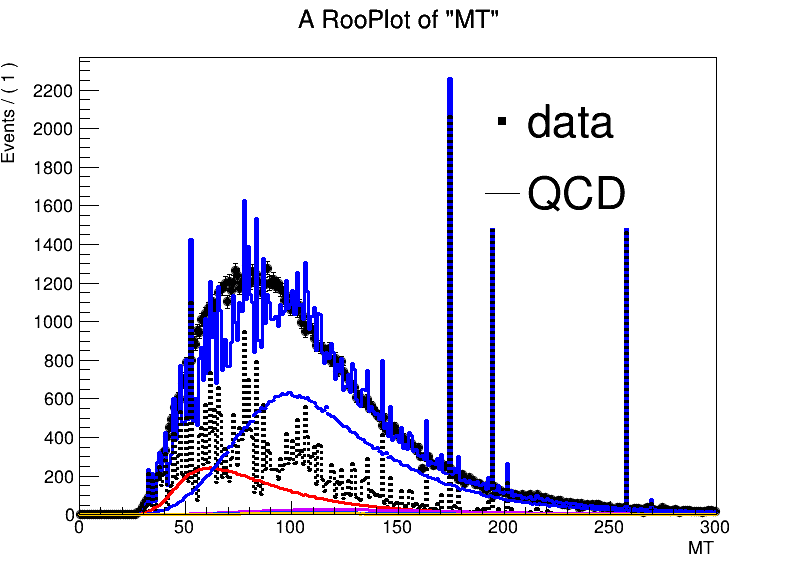
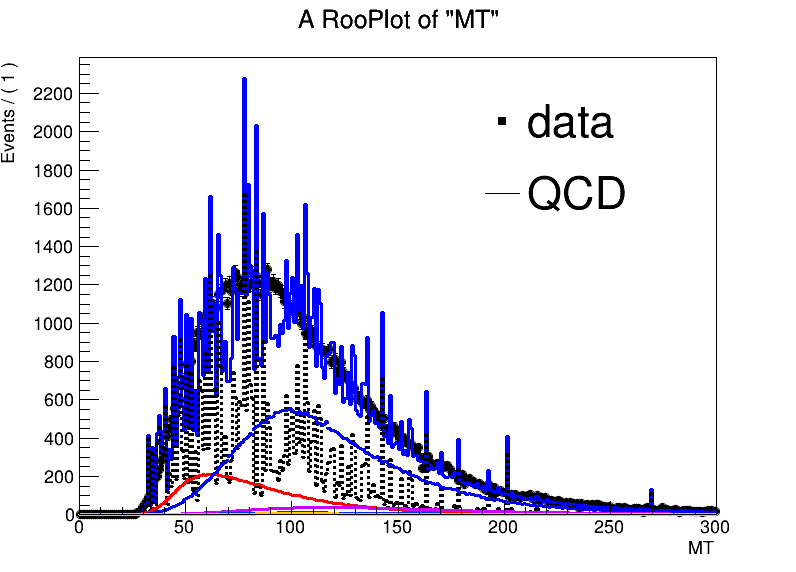
fakerate - muon

diff --git a/MeasFakeRateV3/measFakeRate.py b/MeasFakeRateV3/measFakeRate.py
@@ -1,0 +1,116 @@
+#### Measure Fake Rate with systematic variations
+#### PromptNorm: 17% for muons, ? for electrons
+from math import pow, sqrt
+import argparse
+import ROOT
+ROOT.gSystem.Load("fitFunction_C.so")
+
+parser = argparse.ArgumentParser()
+parser.add_argument("--era", required=True, type=str, help="era")
+parser.add_argument("--measure", required=True, type=str, help="muon / electron")
+args = parser.parse_args()
+
+#### Samples
+DATASTREAM = ""
+if args.measure == "muon":
+    HLTPATHs = ["MeasFakeMu8", "MeasFakeMu17"]
+    DATASTREAM = "DoubleMuon"
+elif args.measure == "electron":
+    HLTPATHs = ["MeasFakeEl8", "MeasFakeEl12", "MeasFakeEl23"]
+    if "2016" in args.era:   DATASTREAM = "DoubleEG"
+    elif args.era == "2017": DATASTREAM = "SingleElectron"
+    elif args.era == "2018": DATASTREAM = "EGamma"
+    else:                    raise KeyError
+
+W = ["WJets_MG"]
+DY = ["DYJets", "DYJets10to50_MG"]
+TT = ["TTLL_powheg", "TTLJ_powheg"]
+VV = ["WW_pythia", "WZ_pythia", "ZZ_pythia"]
+ST = ["SingleTop_sch_Lep", "SingleTop_tch_top_Incl", "SingleTop_tch_antitop_Incl",
+      "SingleTop_tW_top_NoFullyHad", "SingleTop_tW_antitop_NoFullyHad"]
+MC = W+DY+TT+VV+ST
+
+#### Systematics
+SYSTs = ["Central",
+         "PromptNormUp", "PromptNormDown",
+         "MotherJetPtUp", "MotherJetPtDown",
+         "RequireHeavyTag",]
+
+def add_mc_hists(samples, hltpath, histkey):
+    out = None
+    for sample in samples:
+        f = ROOT.TFile(f"../data/MeasFakeRateV3/{args.era}/{hltpath}__RunSyst__/MeasFakeRateV3_{sample}.root")
+        h = f.Get(histkey)
+        if out is None:
+            out = h.Clone(f"{sample}_{hltpath}_{id}")
+            out.SetDirectory(0)
+        else:
+            out.Add(h)
+        f.Close()
+    return out
+    
+
+def get_hists(hltpath, id, syst="Central"):
+    out = {}
+    if syst in ["Central", "PromptNormUp", "PromptNormDown"]:
+        histkey = f"Inclusive/{id}/Central/abseta_ptcorr"
+    else:
+        histkey = f"Inclusive/{id}/{syst}/abseta_ptcorr"
+    # get data
+    f = ROOT.TFile(f"../data/MeasFakeRateV3/{args.era}/{hltpath}__/DATA/MeasFakeRateV3_{DATASTREAM}.root")
+    h = f.Get(histkey.replace(syst, "Central"))
+    out["data"] = h.Clone(f"data_{hltpath}_{id}")
+    out["data"].SetDirectory(0)
+    f.Close()
+     
+    # get mc
+    out["W"] = add_mc_hists(W, hltpath, histkey)
+    out["DY"] = add_mc_hists(DY, hltpath, histkey)
+    out["TT"] = add_mc_hists(TT, hltpath, histkey)
+    out["ST"] = add_mc_hists(ST, hltpath, histkey)
+    out["VV"] = add_mc_hists(VV, hltpath, histkey)
+    
+    ## normalize histograms
+    if syst in ["Central", "PromptNormUp", "PromptNormDown"]: 
+        fitResult = ROOT.fitMT(args.era, hltpath, id, "Central")
+    else:
+       fitResult = ROOT.fitMT(args.era, hltpath, id, syst) 
+    norm_factors = fitResult.floatParsFinal()
+    nevt_data = out["data"].Integral()
+    for i in range(norm_factors.getSize()):
+        name, value, error = norm_factors.at(i).GetName(), norm_factors.at(i).getVal(), norm_factors.at(i).getError()
+        if syst == "PromptNormUp" and args.measure == "muon":
+            value *= 1.18
+        if syst == "PromptNormDown" and args.measure == "muon":
+            value *= 0.82
+        #print(name, value, error)
+        if "W" in name:  out["W"].Scale(nevt_data/out["W"].Integral()*value)
+        if "DY" in name: out["DY"].Scale(nevt_data/out["DY"].Integral()*value)
+        if "TT" in name: out["TT"].Scale(nevt_data/out["TT"].Integral()*value)
+        if "ST" in name: out["ST"].Scale(nevt_data/out["ST"].Integral()*value)
+        if "VV" in name: out["VV"].Scale(nevt_data/out["VV"].Integral()*value)  
+    
+    return out
+
+if __name__ == "__main__":
+    f = ROOT.TFile.Open(f"results/{args.era}/fakerate_{args.measure}.root", "recreate")
+    for hltpath in HLTPATHs:
+        for syst in SYSTs:
+            hists_loose = get_hists(hltpath, "loose", syst)
+            hists_tight = get_hists(hltpath, "tight", syst)
+            data_loose = hists_loose["data"].Clone(f"data_loose_{hltpath}_{syst}")
+            data_tight = hists_tight["data"].Clone(f"data_tight_{hltpath}_{syst}")
+            for name in ["W", "DY", "TT", "ST", "VV"]:
+                print(f"{name}: {hists_loose[name].Integral()}, {hists_tight[name].Integral()}")
+                data_loose.Add(hists_loose[name], -1)
+                data_tight.Add(hists_tight[name], -1)
+            fr = data_tight.Clone(f"fakerate_{hltpath}_{syst}")
+            fr.Divide(data_loose)
+            f.cd()
+            fr.Write()
+    f.Close()
+
+
+
+        
+        

diff --git a/MeasFakeRateV3/fitFunction.C b/MeasFakeRateV3/fitFunction.C
@@ -80,11 +80,19 @@ RooFitResult* fitMT(const TString ERA, const TString HLT, const TString ID, cons
     // make mc templates
     for (const auto &sample: QCD) {
         f = new TFile("../data/MeasFakeRateV3/"+ERA+"/"+HLT+"__RunSyst__/MeasFakeRateV3_"+sample+".root");
-        TH1D *h = (TH1D*)f->Get(histkey); h->SetDirectory(0); f->Close();
-        //h->Scale(prescale);
-        map<TString, TH1D*>::iterator it = HISTs.find("QCD");
-        if (it == HISTs.end()) HISTs["QCD"] = (TH1D*)h->Clone("h_QCD");
-        else                   HISTs["QCD"]->Add(h);
+        //std::cout << sample << std::endl;
+        TH1D *h = dynamic_cast<TH1D*>(f->Get(histkey)); 
+        if (h) {
+            h->SetDirectory(0);
+            //h->Scale(prescale);
+            map<TString, TH1D*>::iterator it = HISTs.find("QCD");
+            if (it == HISTs.end()) HISTs["QCD"] = (TH1D*)h->Clone("h_QCD");
+            else                   HISTs["QCD"]->Add(h);
+        }
+        else {
+            std::cout << "no MT distribution for " << sample << std::endl;
+        }
+        f->Close();
     }
     
     for (const auto &sample: W) {
